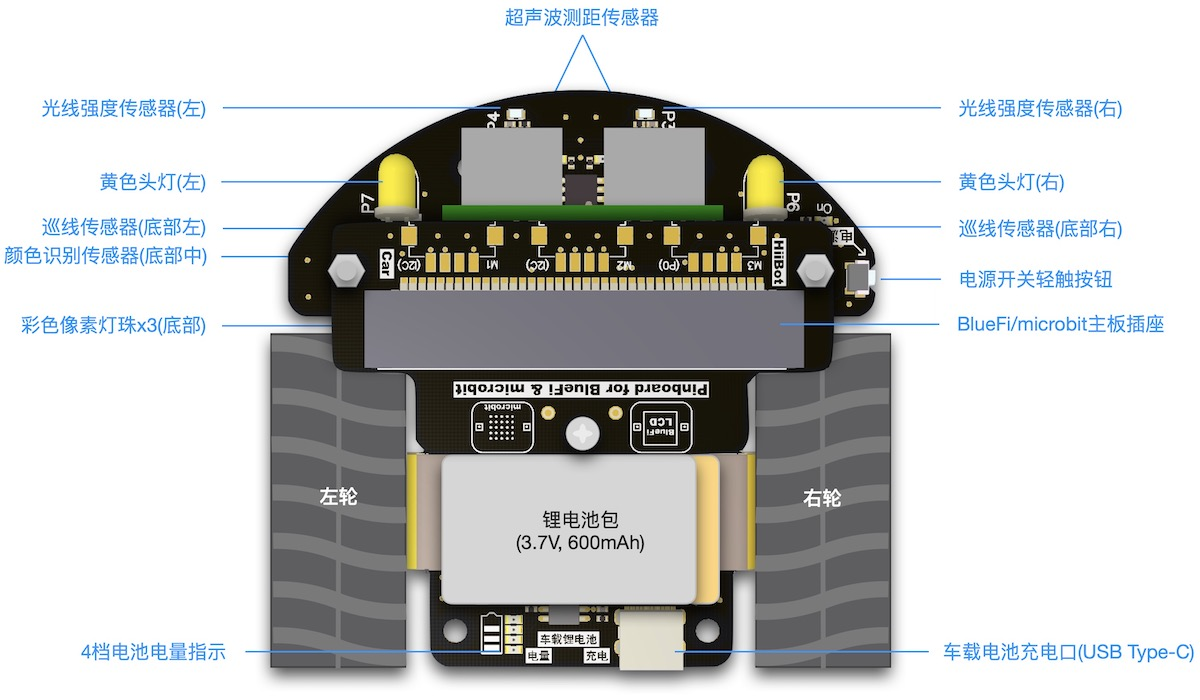
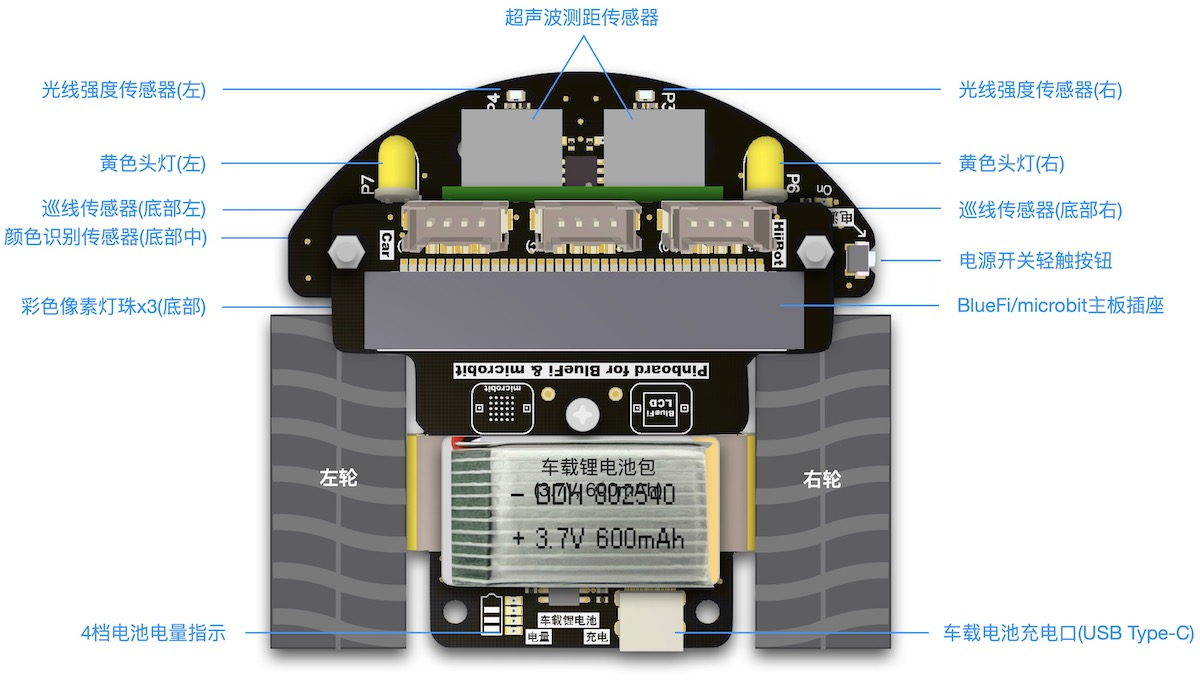
update rungo

diff --git a/source/peripheral/car_class/rungo_use.rst b/source/peripheral/car_class/rungo_use.rst
@@ -11,7 +11,7 @@
   - 1x 超声波避障传感器(与前方障碍物之间的距离, distance)，使用P8(Trig)和P12(Echo)引脚
   - 2x 光电反射型循迹传感器，使用P9(rightTracker)和P10(leftTracker)引脚
   - 2x 直流有刷电机(N20型)，使用P13和P15(右马达)、P14和P16(左马达)引脚
-  - 1x 车载600mAh的单节锂电池及其充电和电量指示单元，使用USB Type C接口实现快速充电(20~30分钟即可充满)，满电后可连续使用1小时以上
+  - 1x 车载锂电池包(3.7V,600mAh)及其充电和电量指示单元，使用USB Type C接口实现快速充电(20~30分钟即可充满)，满电后可连续使用1小时以上
   - 1x 高效的车载电源管理单元，小车底盘右前方的轻触按钮可开启/关闭小车电源，
 
 ---------------------------------
